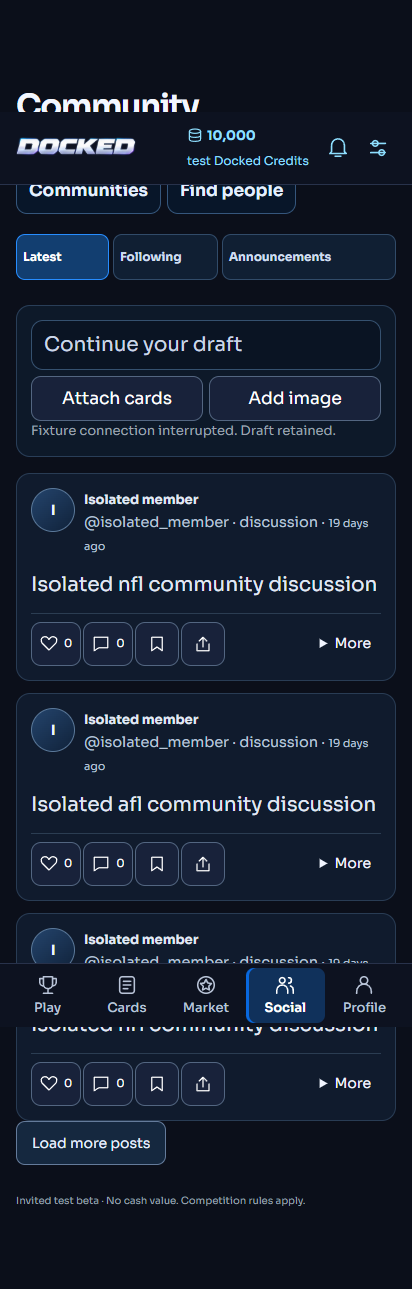
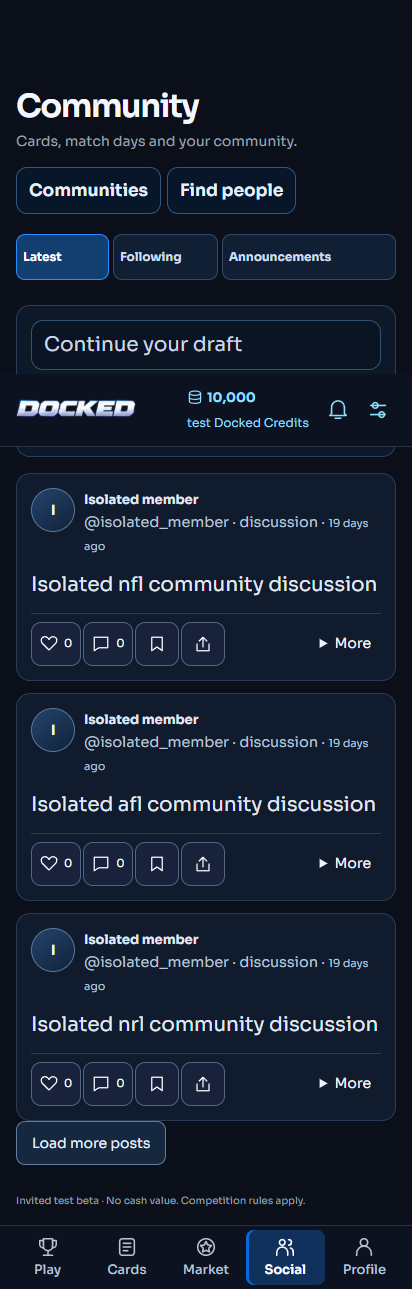
Preserve attachment focus when clearing sport selection

diff --git a/src/components/social-composer.tsx b/src/components/social-composer.tsx
@@ -379,6 +379,16 @@ export function SocialComposer({
                             .filter((owned) => owned.card.sport === card.sport)
                             .findIndex((owned) => owned.card.id === card.id);
                           setCardPage(Math.floor(index / 24));
+                        } else if (!e.target.checked && cardIds.length === 1) {
+                          // Removing the last card expands the list across sports.
+                          // Keep this checkbox mounted at its original global page.
+                          const term = search.trim().toLowerCase();
+                          const index = (hub?.cards ?? [])
+                            .filter((owned) =>
+                              owned.card.name.toLowerCase().includes(term),
+                            )
+                            .findIndex((owned) => owned.card.id === card.id);
+                          setCardPage(Math.max(0, Math.floor(index / 24)));
                         }
                         setCards(
                           e.target.checked

diff --git a/scripts/social-refinement-acceptance.ts b/scripts/social-refinement-acceptance.ts
@@ -194,6 +194,20 @@ async function main() {
           page.locator(".social-attachment-grid .fantasy-card"),
         ).toHaveCount(24);
         await page.getByRole("button", { name: "Next cards" }).click();
+        if (width === 412) {
+          const aflCard = page.getByRole("checkbox", {
+            name: "Attach Fixture Player 025",
+          });
+          await aflCard.check();
+          await expect(aflCard).toBeChecked();
+          await expect(aflCard).toBeFocused();
+          await aflCard.uncheck();
+          await expect(aflCard).not.toBeChecked();
+          await expect(aflCard).toBeFocused();
+          await expect(
+            page.getByRole("navigation", { name: "Owned card pages" }),
+          ).toContainText("25–48 of 180");
+        }
         await page
           .getByRole("checkbox", { name: "Attach Fixture Player 024" })
           .check();
